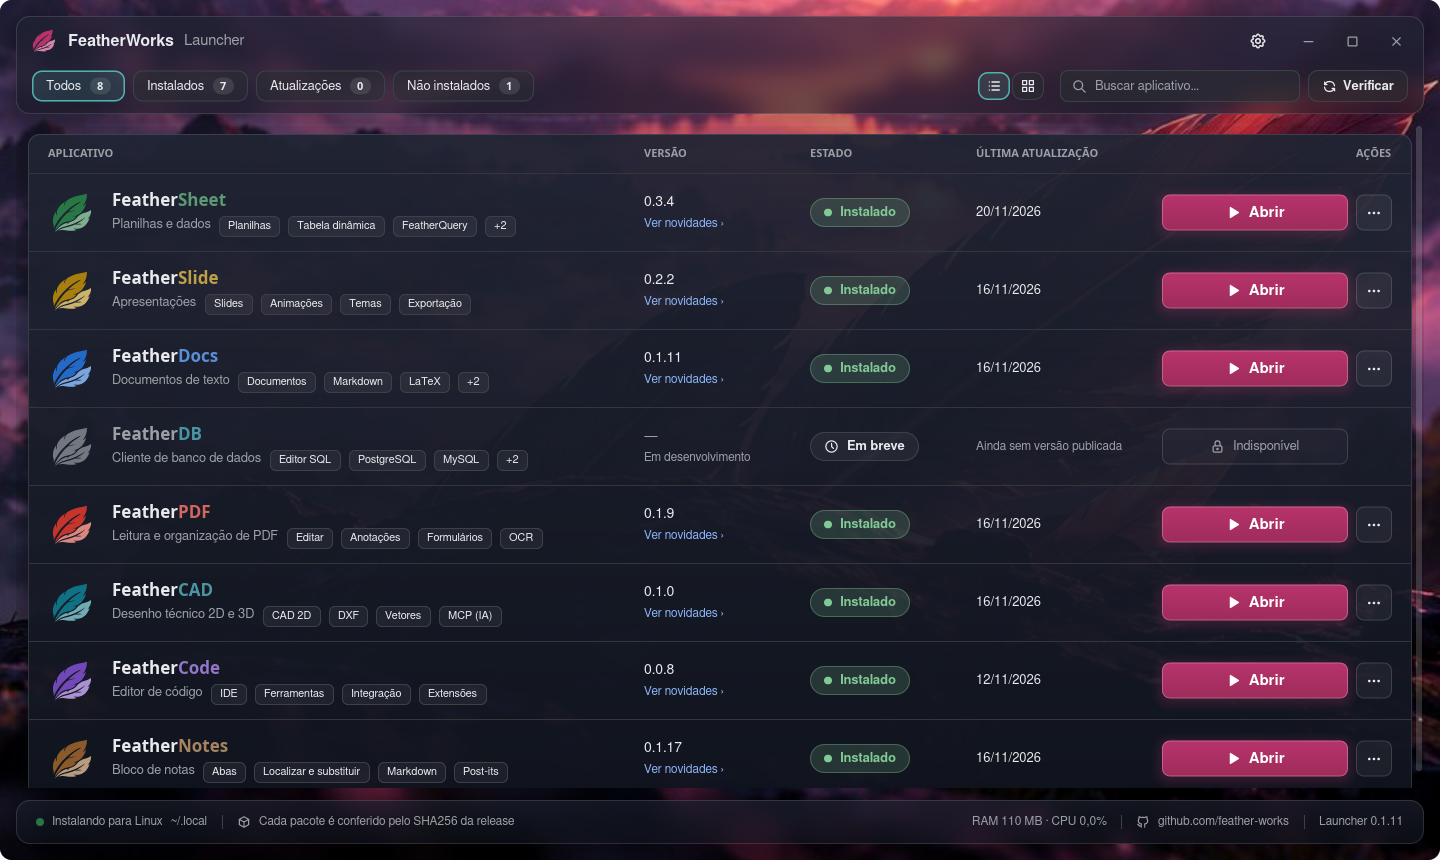
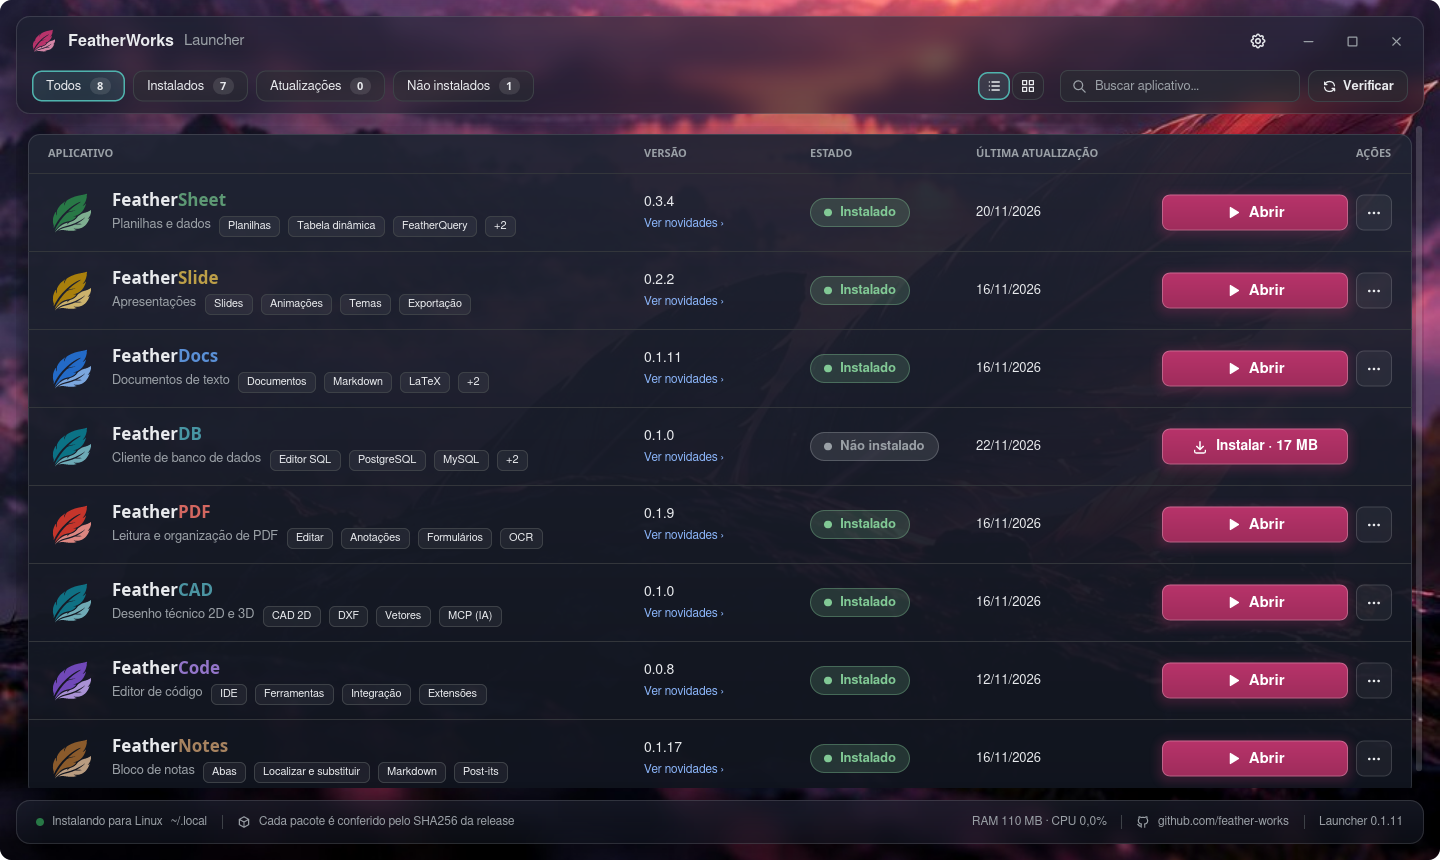
claude: FeatherDB 0.1.0 publicado (README e roadmap) e captura do launcher com ele para instalar

diff --git a/profile/README.md b/profile/README.md
@@ -42,7 +42,7 @@ No account, no login, no telemetry. Everything runs on your machine and none of 
 | <img src="imagens/feathernotes.svg" width="56"> | [**FeatherNotes**](https://github.com/feather-works/feathernotes) | Notepad and desktop sticky notes: tabs that come back, Markdown, 30+ encodings | v0.1.17 | [Linux and Windows](https://github.com/feather-works/feathernotes/releases/latest) |
 | <img src="imagens/featherdocs.svg" width="56"> | [**FeatherDocs**](https://github.com/feather-works/featherdocs) | Documents: DOCX, LaTeX and Markdown | v0.1.11 | [Linux and Windows](https://github.com/feather-works/featherdocs/releases/latest) |
 | <img src="imagens/featherpdf.svg" width="56"> | [**FeatherPDF**](https://github.com/feather-works/featherpdf) | Reading and organizing PDFs: annotations, forms, OCR | v0.1.9 | [Linux and Windows](https://github.com/feather-works/featherpdf/releases/latest) |
-| <img src="imagens/featherdb.svg" width="56"> | [**FeatherDB**](https://github.com/feather-works/featherdb) | Lightweight database client: PostgreSQL, MySQL, SQLite, MongoDB and ODBC (Datasphere, TDV, SQL Server…) | in development | — |
+| <img src="imagens/featherdb.svg" width="56"> | [**FeatherDB**](https://github.com/feather-works/featherdb) | Lightweight database client: PostgreSQL, MySQL, SQLite, MongoDB and ODBC (Datasphere, TDV, SQL Server…) | v0.1.0 | [Linux and Windows](https://github.com/feather-works/featherdb/releases/latest) |
 | <img src="imagens/feathercad.svg" width="56"> | **FeatherCAD** | 2D and 3D technical drawing | in development | — |
 
 Each app is an independent product with its own repository, version and installer. If you prefer to install without the launcher, each repository's releases page has the packages (`.deb`, `.tar.gz`, `.exe`) and the `SHA256SUMS`.

diff --git a/ROADMAP.md b/ROADMAP.md
@@ -127,8 +127,8 @@ the grid, query history, format SQL, EXPLAIN, reconnect on a dropped connection.
 - [ ] Test the SSH tunnel against a real server (only the error path is tested).
 - [ ] Native SQL Server without C: `tiberius` pulls `aws-lc` (C, cmake) through `tokio-rustls`; today SQL Server goes through ODBC.
 - [ ] Bring the FeatherDB brand into `feather-ui` (`marca::Produto`); today the app recolors the feather itself.
-- [x] Listed in the FeatherWorks Launcher (22/11/2026); shows as unavailable until the first release.
-- [ ] First release (packages for Linux and Windows).
+- [x] Listed in the FeatherWorks Launcher (22/11/2026, Launcher 0.1.12).
+- [x] First release: 0.1.0 on 2026-11-22 (`.deb`, `.tar.gz`, Windows installer and portable zip; `pacote/gerar.sh`).
 
 ## <img src="profile/imagens/feathercad.svg" width="24"> FeatherCAD 🔴
 
